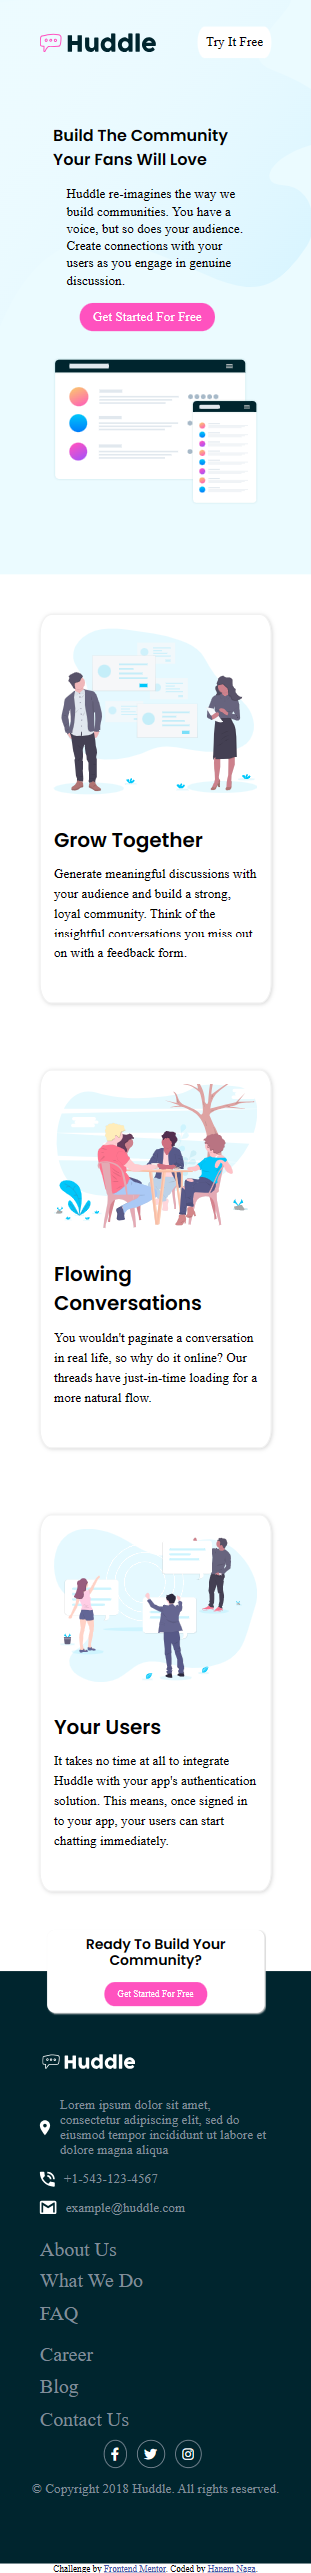
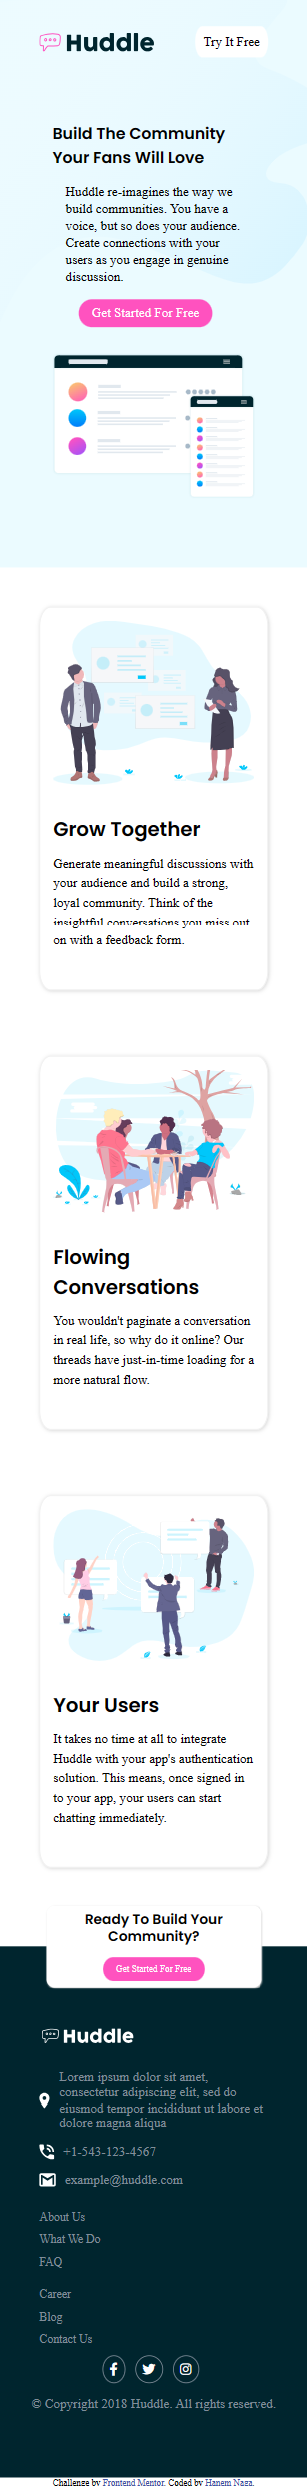
add button cursor and adjust font size for footer

diff --git a/index.html b/index.html
@@ -144,51 +144,7 @@
     </div>
   </section>
 
-    <!-- Try It Free
-
-  Build The Community Your Fans Will Love
-
-  Huddle re-imagines the way we build communities. You have a voice, but so does your audience. 
-  Create connections with your users as you engage in genuine discussion. 
-
-  Get Started For Free
-
-  Grow Together
-
-  Generate meaningful discussions with your audience and build a strong, loyal community. 
-  Think of the insightful conversations you miss out on with a feedback form. 
-
-  Flowing Conversations
-
-  You wouldn't paginate a conversation in real life, so why do it online? Our threads 
-  have just-in-time loading for a more natural flow.
-
-  Your Users
-
-  It takes no time at all to integrate Huddle with your app's authentication solution. 
-  This means, once signed in to your app, your users can start chatting immediately.
-
-  Ready To Build Your Community?
-
-  Get Started For Free
-
-  Lorem ipsum dolor sit amet, consectetur adipiscing elit, sed do eiusmod tempor 
-  incididunt ut labore et dolore magna aliqua
-
-  +1-543-123-4567
-  example@huddle.com
-
-  About Us
-  What We Do
-  FAQ
-
-  Career
-  Blog
-  Contact Us -->
-
-    <!-- &copy; Copyright 2018 Huddle. All rights reserved.
-
-     -->
+   
      <footer>
       <p class="attribution">
         Challenge by

diff --git a/main.css b/main.css
@@ -42,6 +42,7 @@ header {
 
 .logo button {
   border: none;
+  cursor: pointer;
   padding: 1.3rem 3.5rem;
   border-radius: 10% 50%;
   -webkit-border-radius: 10% 50%;
@@ -97,6 +98,7 @@ header .upper .content button {
   display: block;
   margin-left: 2rem;
   border: none;
+  cursor: pointer;
   padding: 1.3rem 3.5rem;
   border-radius: 10% 50%;
   -webkit-border-radius: 10% 50%;
@@ -194,6 +196,11 @@ header .upper .content button:hover {
   margin: 0.7rem 1rem;
   font-size: 1.5rem;
 }
+@media (max-width: 991px) {
+  .footer .f-container p {
+    font-size: 0.9rem;
+  }
+}
 .footer .icons {
   align-self: center;
 }
@@ -244,6 +251,7 @@ header .upper .content button:hover {
 }
 .footer .ready button {
   border: none;
+  cursor: pointer;
   padding: 1.3rem 3.5rem;
   border-radius: 10% 50%;
   -webkit-border-radius: 10% 50%;

diff --git a/scss/_main.scss b/scss/_main.scss
@@ -141,6 +141,9 @@ header .upper {
       color: $Grayish-Blue;
       margin: 0.7rem 1rem;
       font-size: 1.5rem;
+      @include media(mobile) {
+        font-size: 0.9rem;
+      }
     }
   }
   .icons {

diff --git a/scss/_mixins.scss b/scss/_mixins.scss
@@ -1,5 +1,6 @@
 @mixin button {
   border: none;
+  cursor: pointer;
   padding: 1.3rem 3.5rem;
   border-radius: 10% 50%;
   -webkit-border-radius: 10% 50%;
